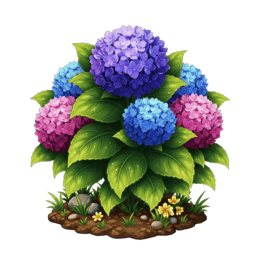
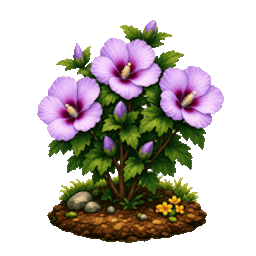
flowers, reed

diff --git a/merge_items_array.js b/merge_items_array.js
@@ -23,16 +23,16 @@
 			8:  { level:  8, pic:  'image/items/flowers/flower_8_level.png', giftCollect: { type: 'sphere', level: 3 } },
 			9:  { level:  9, pic:  'image/items/flowers/flower_9_level.png', giftCollect: { type: 'sphere', level: 3 } },
 			10: { level: 10, pic: 'image/items/flowers/flower_10_level.png', giftCollect: { type: 'sphere', level: 3 } },
-			11: { level: 11, pic: "f11", giftCollect: { type: 'sphere', level: 4 } },
-			12: { level: 12, pic: "f12", giftCollect: { type: 'sphere', level: 4 } },
-			13: { level: 13, pic: "f13", giftCollect: { type: 'sphere', level: 4 } },
-			14: { level: 14, pic: "f14", giftCollect: { type: 'sphere', level: 5 } },
-			15: { level: 15, pic: "f15", giftCollect: { type: 'sphere', level: 5 } },
-			16: { level: 16, pic: "f16", giftCollect: { type: 'sphere', level: 5 } },
-			17: { level: 17, pic: "f17", giftCollect: { type: 'sphere', level: 6 } },
-			18: { level: 18, pic: "f18", giftCollect: { type: 'sphere', level: 6 } },
-			19: { level: 19, pic: "f19", giftCollect: { type: 'sphere', level: 6 } },
-			20: { level: 20, pic: "f20", giftCollect: { type: 'sphere', level: 7 } } //тут надо что-то крутое генерить
+			11: { level: 11, pic: 'image/items/flowers/flower_11_level.png', giftCollect: { type: 'sphere', level: 4 } },
+			12: { level: 12, pic: 'image/items/flowers/flower_12_level.png', giftCollect: { type: 'sphere', level: 4 } },
+			13: { level: 13, pic: 'image/items/flowers/flower_13_level.png', giftCollect: { type: 'sphere', level: 4 } },
+			14: { level: 14, pic: 'image/items/flowers/flower_14_level.png', giftCollect: { type: 'sphere', level: 5 } },
+			15: { level: 15, pic: 'image/items/flowers/flower_15_level.png', giftCollect: { type: 'sphere', level: 5 } },
+			16: { level: 16, pic: 'image/items/flowers/flower_16_level.png', giftCollect: { type: 'sphere', level: 5 } },
+			17: { level: 17, pic: 'image/items/flowers/flower_17_level.png', giftCollect: { type: 'sphere', level: 6 } },
+			18: { level: 18, pic: 'image/items/flowers/flower_18_level.png', giftCollect: { type: 'sphere', level: 6 } },
+			19: { level: 19, pic: 'image/items/flowers/flower_19_level.png', giftCollect: { type: 'sphere', level: 6 } },
+			20: { level: 20, pic: 'image/items/flowers/flower_20_level.png', giftCollect: { type: 'sphere', level: 7 } } //тут надо что-то крутое генерить
 			}
 	},
 
@@ -80,17 +80,17 @@
 	},
 
 	reed: { type: "reed", maxLevel: 10, set: { //камыш, из него начинаются дубы
-			 0: {level:  0, pic:  "r0", transformed: { type: 'reed', level: 1, time: 1 * 60 * 1000 } }, //фантазия: если не объединена, то появляется грязь
-			 1: {level:  1, pic:  "r1" },
-			 2: {level:  2, pic:  "r2" },
-			 3: {level:  3, pic:  "r3" },
-			 4: {level:  4, pic:  "r4", giftCollect: { type: 'oak', level: 0 } },
-			 5: {level:  5, pic:  "r5", giftCollect: { type: 'oak', level: 0 } },
-			 6: {level:  6, pic:  "r6", giftCollect: { type: 'oak', level: 1 } },
-			 7: {level:  7, pic:  "r7", giftCollect: { type: 'oak', level: 1 } },
-			 8: {level:  8, pic:  "r8", giftCollect: { type: 'oak', level: 2 } },
-			 9: {level:  9, pic:  "r9", giftCollect: { type: 'oak', level: 2 } },
-			10: {level: 10, pic: "r10", giftCollect: { type: 'oak', level: 3 } },
+			 0: {level:  0, pic:  'image/items/reed/reed_0_level.png', transformed: { type: 'reed', level: 1, time: 1 * 60 * 1000 } }, //фантазия: если не объединена, то появляется грязь
+			 1: {level:  1, pic:  'image/items/reed/reed_1_level.png' },
+			 2: {level:  2, pic:  'image/items/reed/reed_2_level.png' },
+			 3: {level:  3, pic:  'image/items/reed/reed_3_level.png' },
+			 4: {level:  4, pic:  'image/items/reed/reed_4_level.png', giftCollect: { type: 'oak', level: 0 } },
+			 5: {level:  5, pic:  'image/items/reed/reed_5_level.png', giftCollect: { type: 'oak', level: 0 } },
+			 6: {level:  6, pic:  'image/items/reed/reed_6_level.png', giftCollect: { type: 'oak', level: 1 } },
+			 7: {level:  7, pic:  'image/items/reed/reed_7_level.png', giftCollect: { type: 'oak', level: 1 } },
+			 8: {level:  8, pic:  'image/items/reed/reed_8_level.png', giftCollect: { type: 'oak', level: 2 } },
+			 9: {level:  9, pic:  'image/items/reed/reed_9_level.png', giftCollect: { type: 'oak', level: 2 } },
+			10: {level: 10, pic: 'image/items/reed/reed_10_level.png', giftCollect: { type: 'oak', level: 3 } },
 			}
 	},
 

diff --git a/merge_Game_class.js b/merge_Game_class.js
@@ -209,8 +209,8 @@ class Game {
 
 		this.generateItemOnBoard(3, 0, 'eggs', minX, maxX, minY, maxY, 'blackDragon');
 
-this.generateItemOnBoard(1, 1, 'watermill', minX, maxX, minY, maxY);
-this.generateItemOnBoard(1, 2, 'watermill', minX, maxX, minY, maxY);
+// this.generateItemOnBoard(1, 1, 'watermill', minX, maxX, minY, maxY);
+// this.generateItemOnBoard(1, 2, 'watermill', minX, maxX, minY, maxY);
 //this.generateItemOnBoard(1, 4, 'trees', minX, maxX, minY, maxY);
 //this.generateItemOnBoard(1, 6, 'trees', minX, maxX, minY, maxY);
 //this.generateItemOnBoard(1, 8, 'trees', minX, maxX, minY, maxY);

diff --git a/merge_Fog_class.js b/merge_Fog_class.js
@@ -155,7 +155,9 @@
 					const layerFogNew = this.grid[cell.row][cell.col].fog.layer;
 					if(layerFogNew === 0) {
 						const item = this.grid[cell.row][cell.col].item;
-						this.eventBus.emit(EVENTS.CMD_GENERATE_GIFT, item);
+						if(item) {
+							this.eventBus.emit(EVENTS.CMD_GENERATE_GIFT, item);
+						}
 					}
 					this.eventBus.emit(EVENTS.CMD_REMOVE_FOG_ON_CELL, layerFog, layerFogNew,  cell.row,  cell.col);
 				})
